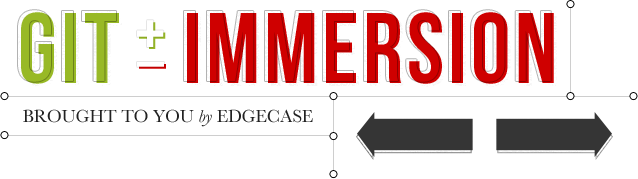
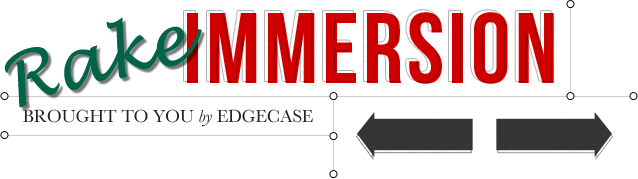
Rake-orient the home page

Changed region(s): [[0.0, 0.0559, 0.3276, 0.6145]]

diff --git a/src/screen.css b/src/screen.css
@@ -62,8 +62,15 @@ header .next * {
   left        : 542px;
   text-indent : -15px; }
 
+header .toc_button * {
+  top        : 11px;
+  left       : 634px;
+  width      : 40px;
+  height     : 40px;
+  background : url(toc.png) no-repeat 50% 50%; }
+
 header .index_button * {
-  top        : 31px;
+  top        : 51px;
   left       : 634px;
   width      : 40px;
   height     : 40px;
@@ -237,32 +244,35 @@ div.instructions pre {
 
 #homepage h1 {
   margin : 0 0 10px 0;
-  color  : #cf0000;
+  color  : #064;
   font   : 32px 'BebasNeueRegular', helvetica, arial, sans-serif; }
 
 #homepage h2 { font: 21px 'BebasNeueRegular', helvetica, arial, sans-serif; }
 
-#homepage a { color: #000; }
+#homepage a { color: #052; }
 
 #homepage .beep {
-  float        : left;
-  margin-right : 32px; }
+  float        : left; }
+
+#homepage .beep p {
+  font          : 18px baskerville, georgia, serif;
+  margin-bottom : 10px; }
 
 #homepage #install {
   position     : relative;
   left         : -23px;
-  padding-left : 346px;
+  padding-left : 85px;
   background   : url(install_circle.png) no-repeat 0 8px; }
 
 #homepage #gui_clients { padding-top: 32px; }
 
 #homepage #brought_to_you_by {
   position      : relative;
-  top           : -117px;
+  top           : -150px;
   left          : 55px;
   width         : 400px;
   margin-bottom : 40px;
-  padding-left  : 346px;
+  padding-left  : 350px;
   background    : url(install_circle.png) no-repeat 0 8px; }
 
 #homepage #brought_to_you_by a {
@@ -287,27 +297,30 @@ div.instructions pre {
 
 #homepage #license {
   position      : relative;
-  top           : -90px;
-  left          : -27px;
-  width         : 300px;
+  top           : 40px;
+  left          : 33px;
+  width         : 200px;
   margin-bottom : 20px;
   padding-left  : 27px;
-  background    : url(circle.png) no-repeat 0 8px; }
+  font-size     : 12px; }
 
 #homepage #license li {
   list-style   : none;
   line-height  : 18px; }
 
+#homepage #license img {
+  padding-left : 5px; }
+
 #intro p {
   position     : relative;
   left         : -27px;
   font         : 18px baskerville, georgia, serif;
-  margin       : 0 0 40px 0;
+  margin       : 0 0 30px 0;
   padding-left : 27px;
   background   : url(circle.png) no-repeat 0 8px; }
 
 #intro p em {
-  font-size  : 27px;
+  font-size  : 20px;
   font-style : normal; }
 
 
@@ -503,7 +516,7 @@ footer nav .index_button a {
   width       : 40px;
   height      : 40px;
   text-indent : -999em;
-  background  : url(index.png); }
+  background  : url(toc.png); }
 
 footer a#edgecase_link_small {
   position    : absolute;

diff --git a/src/UI.js b/src/UI.js
@@ -78,7 +78,7 @@ $(function() {
 
 
   // Lab Index
-  $('#header .index_button a, #footer .index_button a, #pager .index_button a').click(function(e) {
+  $('#header .toc_button a, #footer .toc_button a, #pager .toc_button a').click(function(e) {
     e.preventDefault();
     $('#index').fadeToggle(200);
   });
@@ -98,7 +98,7 @@ $(function() {
   function previousPage() { $('header .previous a').click(); }
 
   $(document).click(function(e) {
-    if (!$(e.target).closest('#index, .index_button').length) {
+    if (!$(e.target).closest('#index, .toc_button').length) {
       $('#index').fadeOut(100);
     }
   }).keyup(function(e) {
